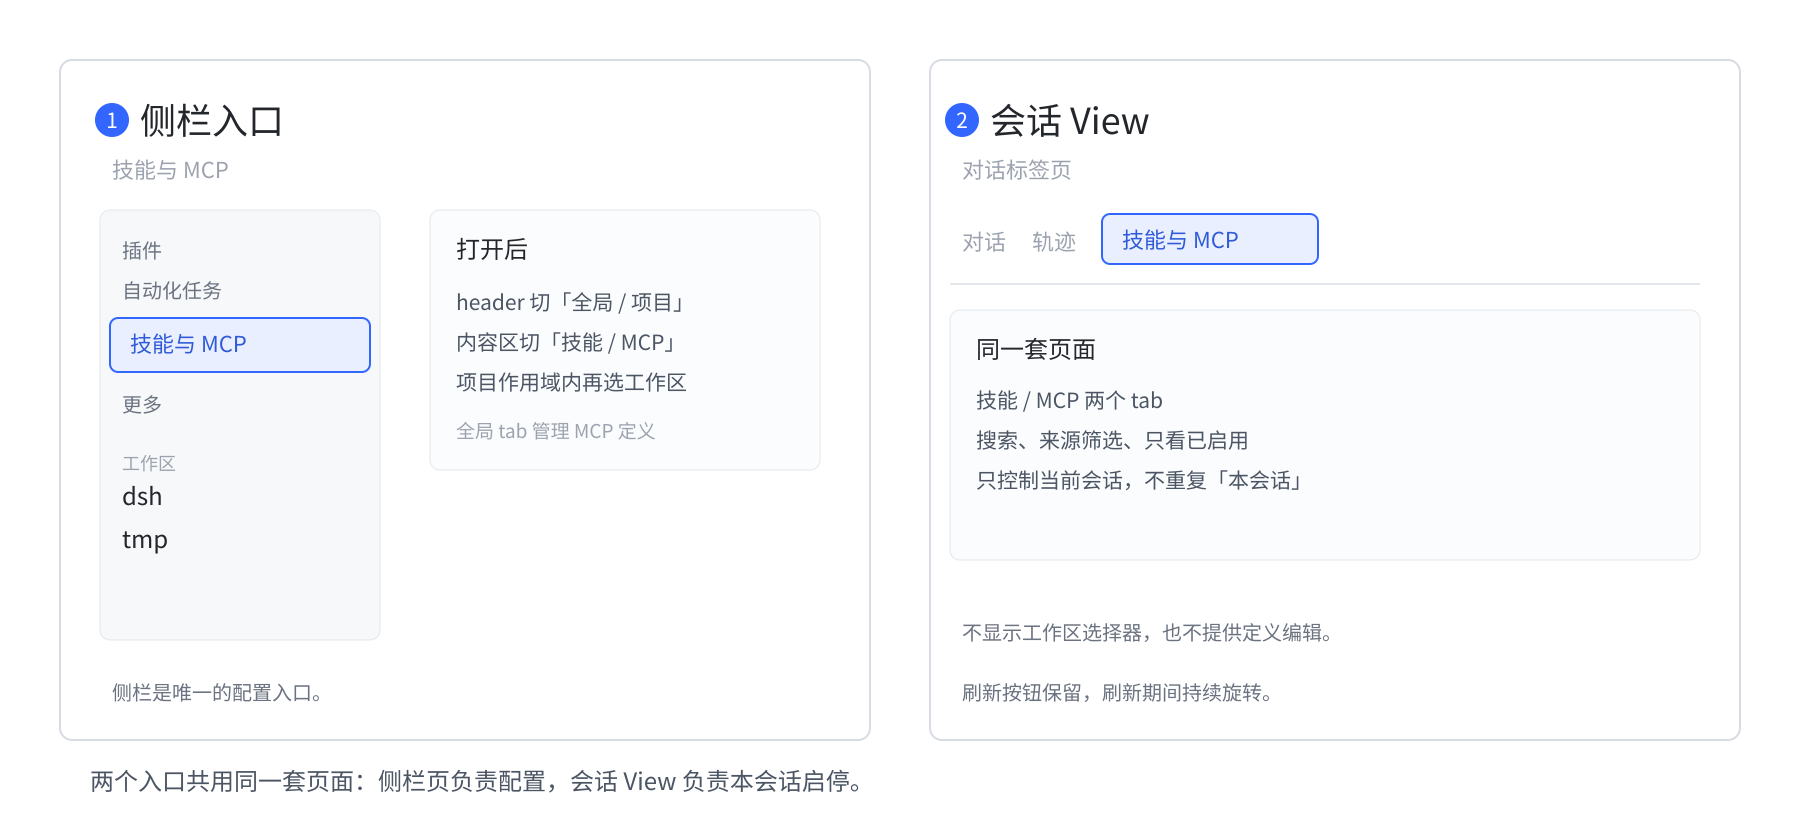
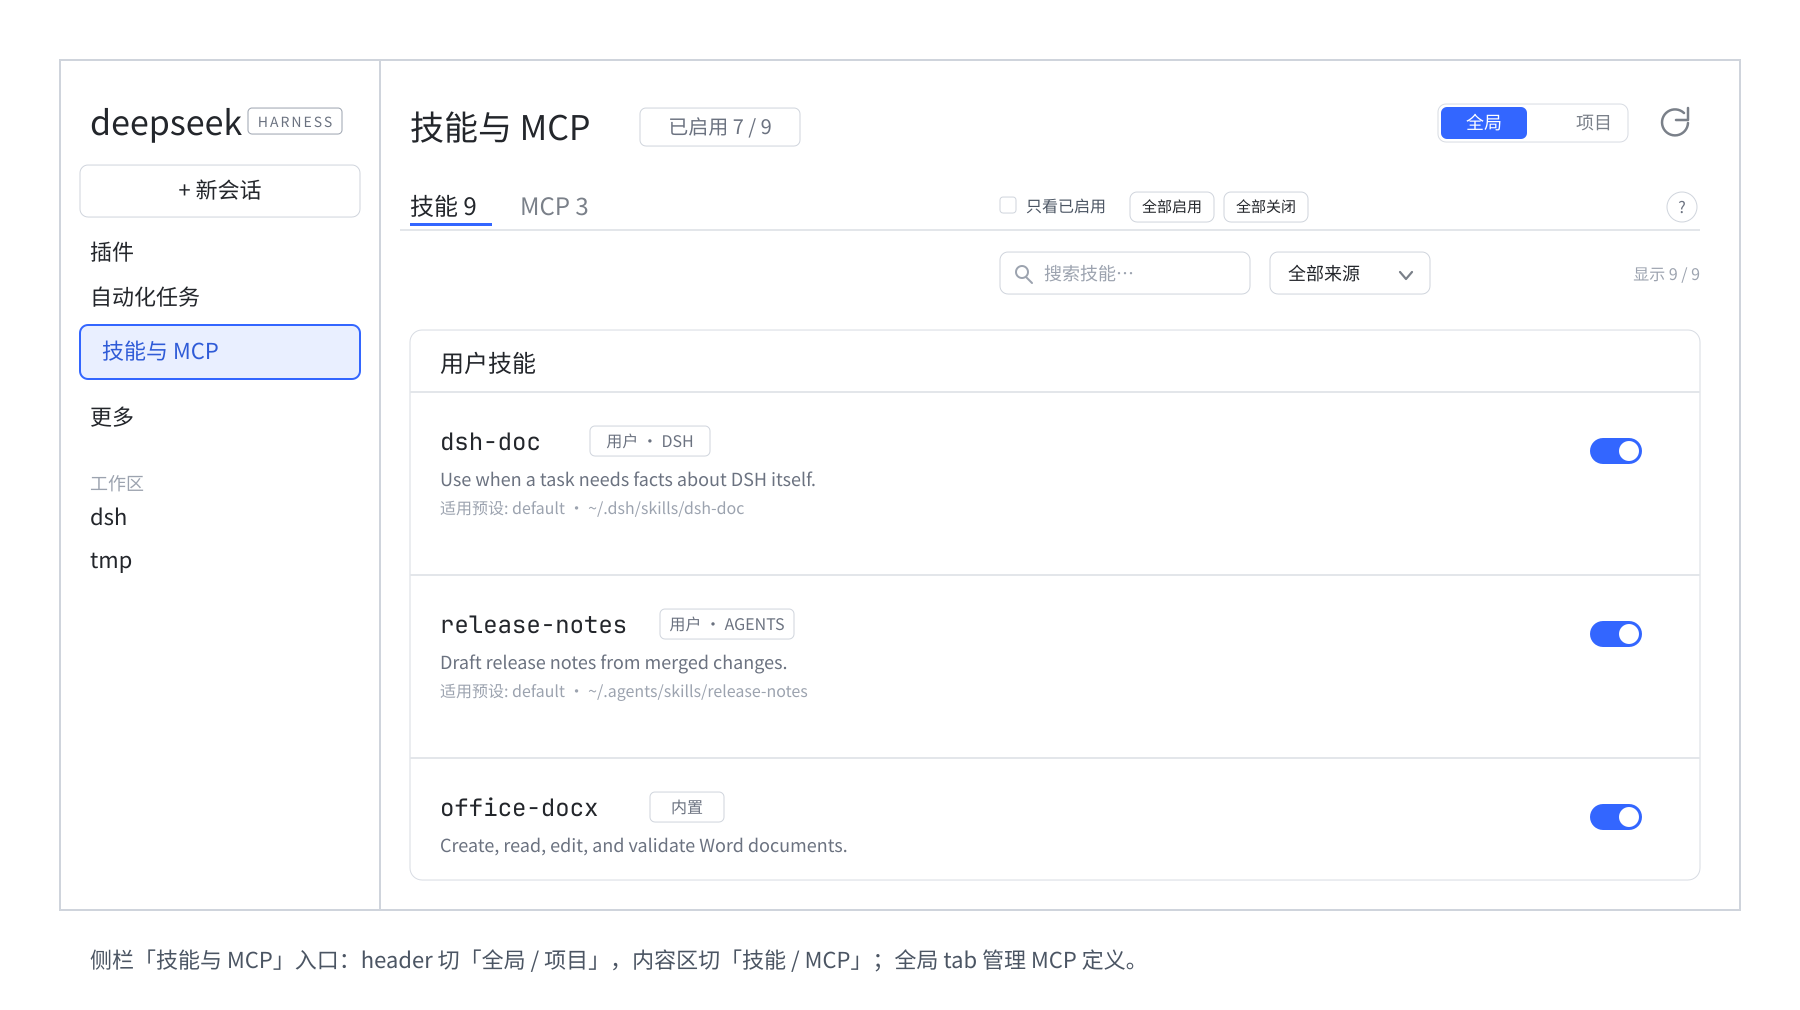
docs: redraw the sidebar entry diagram from the actual UI
Replace the abstract two-card entry illustration with a direct sidebar + page mockup showing the Global/Project switch and the Skills/MCP tabs.

diff --git a/README.en.md b/README.en.md
@@ -17,7 +17,7 @@ No runtime dependencies; no imports from DSH internals.
 
 The images below are diagrams; labels are in Chinese.
 
-<a href="docs/images/entry.png"><img src="docs/images/entry.png" width="860" alt="Diagram: two entries — the sidebar Skills & MCP page and the conversation View tab"></a>
+<a href="docs/images/entry.png"><img src="docs/images/entry.png" width="860" alt="Diagram: the sidebar Skills & MCP page — Global / Project switch in the header, Skills / MCP tabs in the content area"></a>
 
 Sidebar page structure:
 

diff --git a/README.md b/README.md
@@ -17,7 +17,7 @@ DeepSeek Harness 的 Web 插件：在一个面板里查看**实际生效**的技
 
 以下配图都是示意图。
 
-<a href="docs/images/entry.png"><img src="docs/images/entry.png" width="860" alt="示意图：两个入口——侧栏「技能与 MCP」页与会话 View 标签页"></a>
+<a href="docs/images/entry.png"><img src="docs/images/entry.png" width="860" alt="示意图：侧栏「技能与 MCP」页——header 切「全局 / 项目」，内容区切「技能 / MCP」"></a>
 
 侧栏页面结构：
 

diff --git a/CHANGELOG.md b/CHANGELOG.md
@@ -2,7 +2,7 @@
 
 ## 未发布
 
-- README 增加四张示意图：两个入口、技能 tab、MCP tab、作用域优先级（PNG + SVG 源文件）。
+- README 增加四张示意图：侧栏入口页、技能 tab、MCP tab、作用域优先级（PNG + SVG 源文件）。
 
 ## 0.1.0 — 2026-11-19
 
